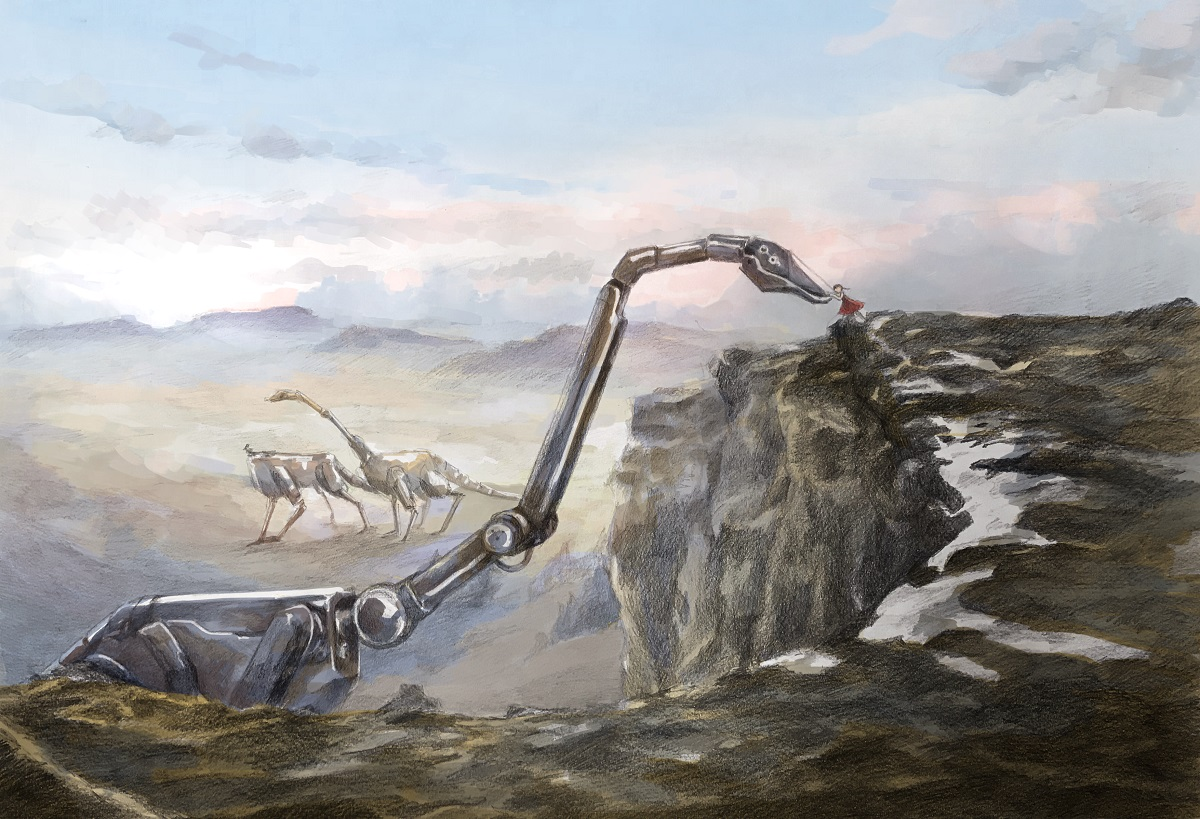
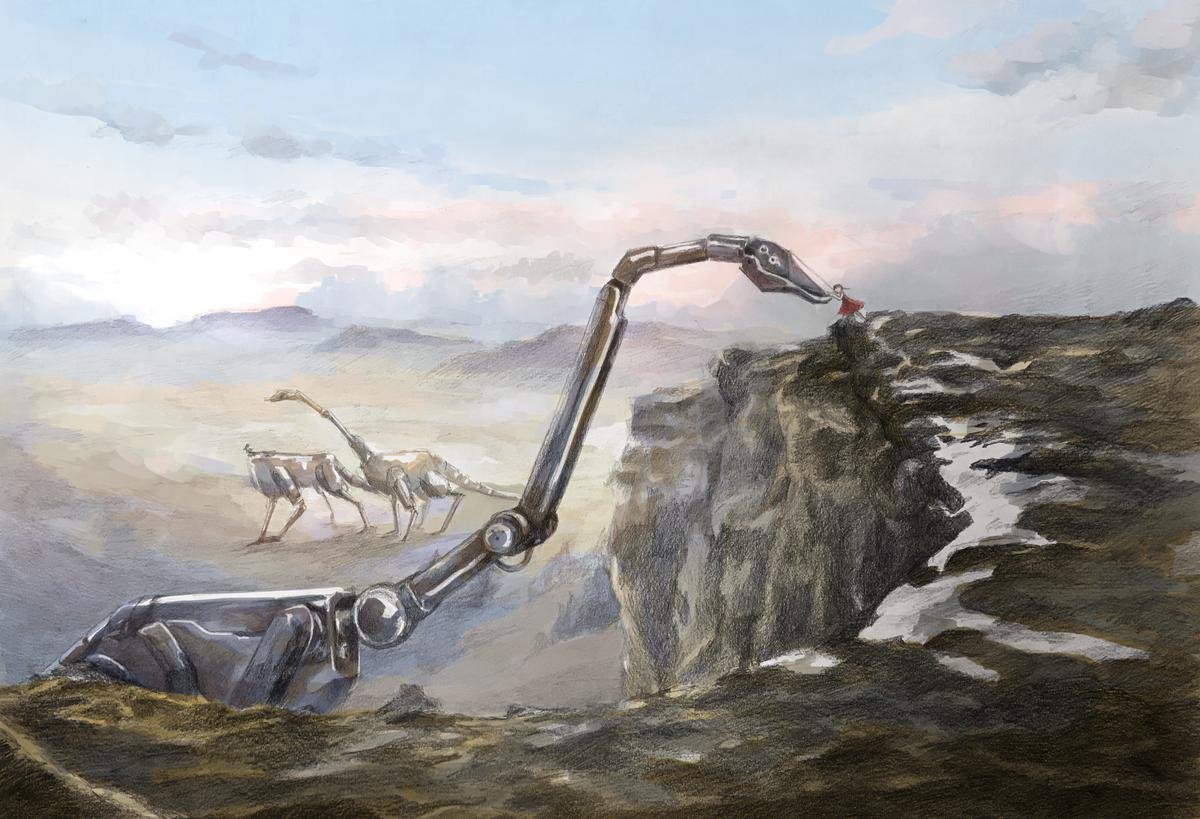
fixed resizing program to keep color profile

diff --git a/static/img/resize.py b/static/img/resize.py
@@ -21,16 +21,17 @@ for file in glob.glob(IN_FOLDER + '*'):
     file_base = os.path.basename(file)[:-4]
     output_file = OUT_FOLDER + '/' + file_base + '.jpg'
     print(file_base)
-    
+
     #only resize if images are not already the directory
     if not os.path.exists(output_file):
         print("resizing!")
         img = Image.open(file)
+        icc_profile = img.info.get('icc_profile')
         w_percent = width/float(img.size[0])
         height = int(float(img.size[1])*float(w_percent))
         new_img = img.resize((width, height), Image.ANTIALIAS)
         new_img = new_img.convert('RGB')
-        new_img.save(output_file)
+        new_img.save(output_file, icc_profile=icc_profile)
     else:
         print('already here, not resizing!')
 
